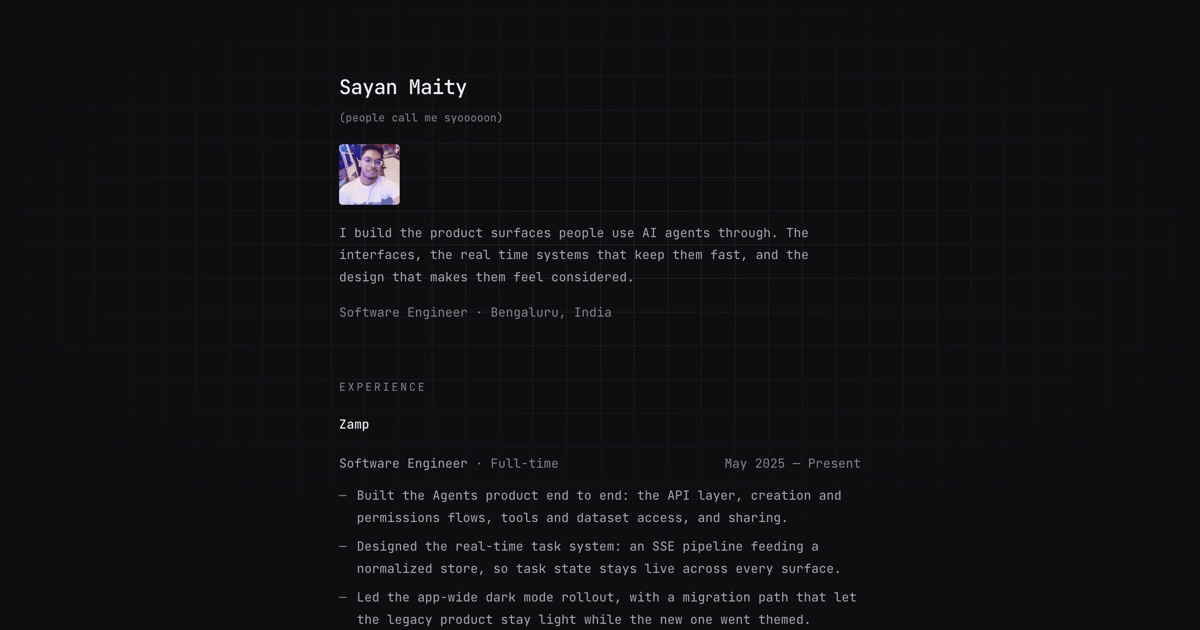
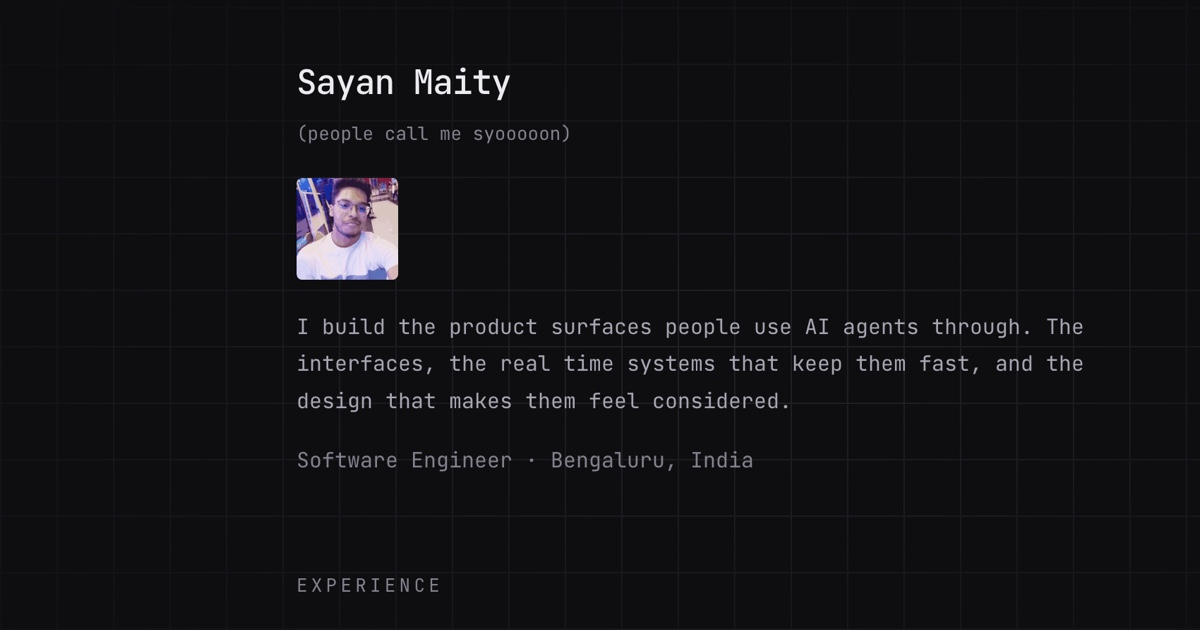
Fix the link preview card
Four problems with how the site unfurled in Slack:

- The image was the right file size but the wrong crop. The text column
  occupied about 40% of a 2880px-wide screenshot, so after scaling to
  1200x630 the text was tiny and ringed by empty space. Recropped from a
  1700x892 region so the content fills the frame and the name is legible
  at preview size.
- og:site_name is now the person's name rather than falling through to the
  domain.
- og:title carries the role: "Sayan Maity — Software Engineer".
- The description named the current employer, which dates the page and
  stops being true on a job change. Rewritten generally. Also dropped the
  employer from the keywords meta, which had the same problem.

No meta tag names an employer now. Zamp remains in the page body, JSON-LD
worksFor, llms.txt and resume.json, where it belongs as experience.

diff --git a/src/app/layout.tsx b/src/app/layout.tsx
@@ -31,19 +31,19 @@ export const metadata: Metadata = {
   creator: person.name,
   keywords: [
     "Sayan Maity",
+    "software engineer",
     "frontend engineer",
     "React",
     "Next.js",
     "TypeScript",
-    "Zamp",
     "Bengaluru",
   ],
   openGraph: {
     type: "profile",
-    title: site.title,
+    title: site.headline,
     description: site.description,
     url: site.url,
-    siteName: site.title,
+    siteName: person.name,
     locale: "en_US",
     images: [
       // 1200x630 is what Slack, LinkedIn and X expect; a square renders as
@@ -58,7 +58,7 @@ export const metadata: Metadata = {
   },
   twitter: {
     card: "summary_large_image",
-    title: site.title,
+    title: site.headline,
     description: site.description,
     images: ["/og.jpg"],
   },

diff --git a/src/shared/constants/content.constants.ts b/src/shared/constants/content.constants.ts
@@ -9,8 +9,11 @@
 export const site = {
   url: "https://sayanmaity.in",
   title: "Sayan Maity",
+  /** Shown as the headline in link previews and search results. */
+  headline: "Sayan Maity — Software Engineer",
+  /** No employer named: this stays true wherever the job is. */
   description:
-    "Sayan Maity is a frontend engineer at Zamp in Bengaluru, building agent platforms, real-time systems and design systems with React, Next.js and TypeScript.",
+    "Software engineer in Bengaluru building AI agent platforms — the interfaces, the real time systems underneath them, and the services behind them.",
 } as const;
 
 export const person = {
